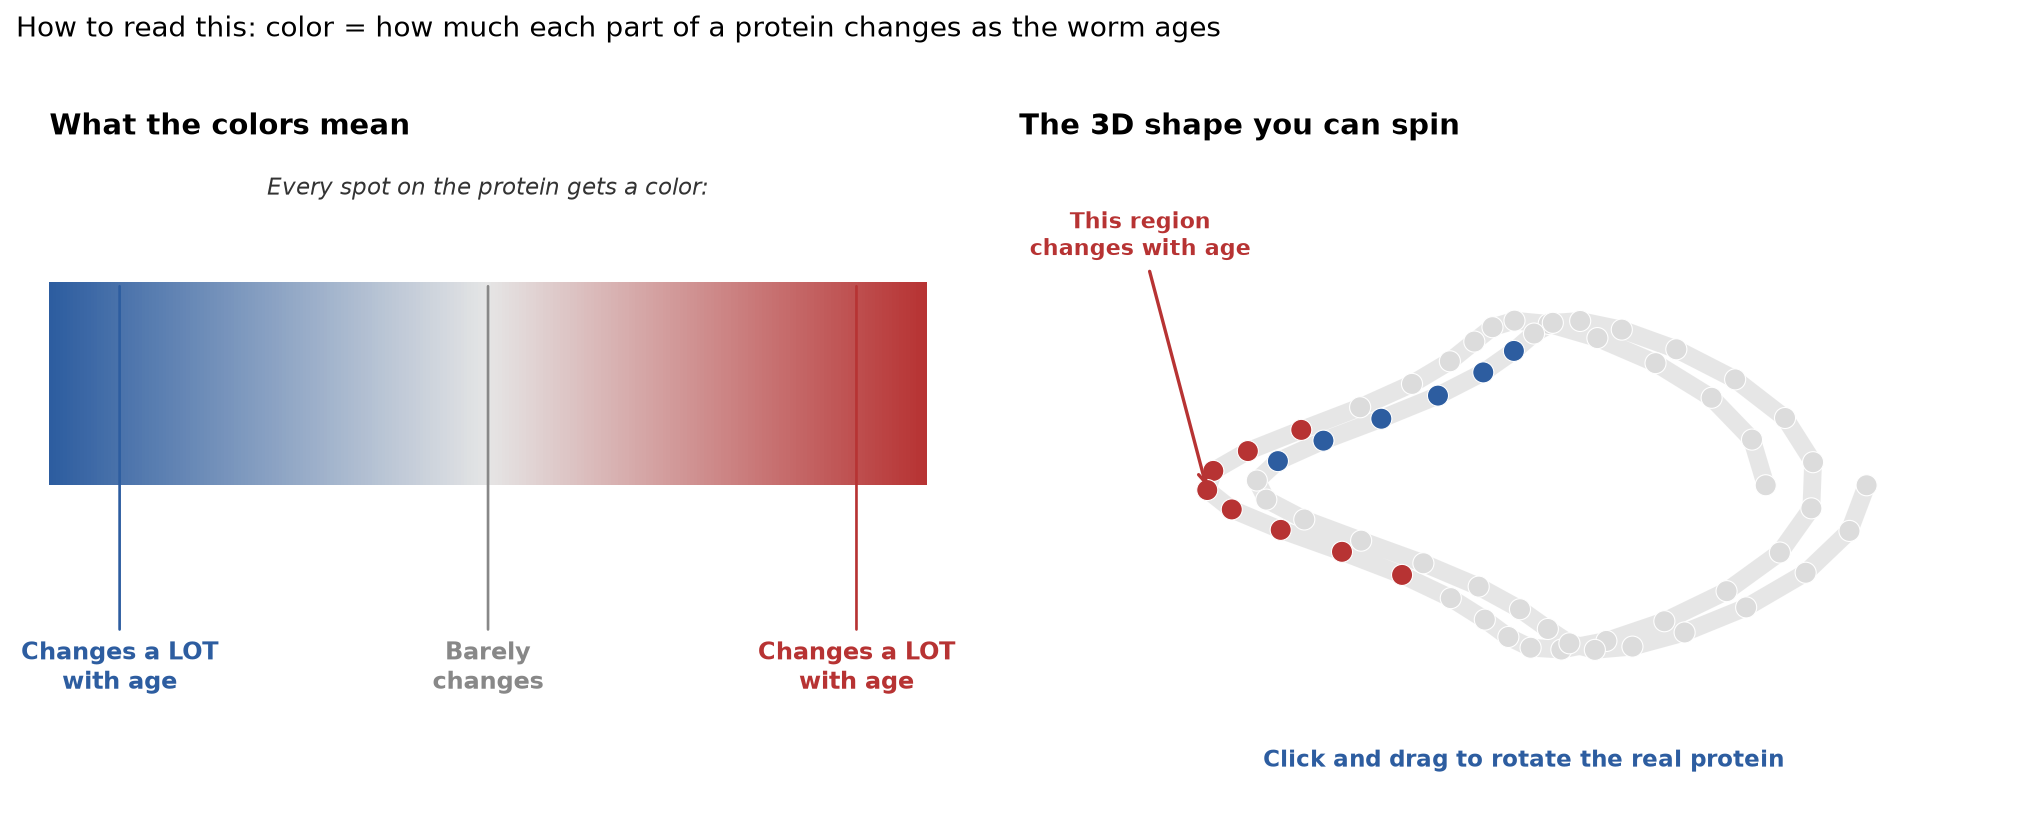
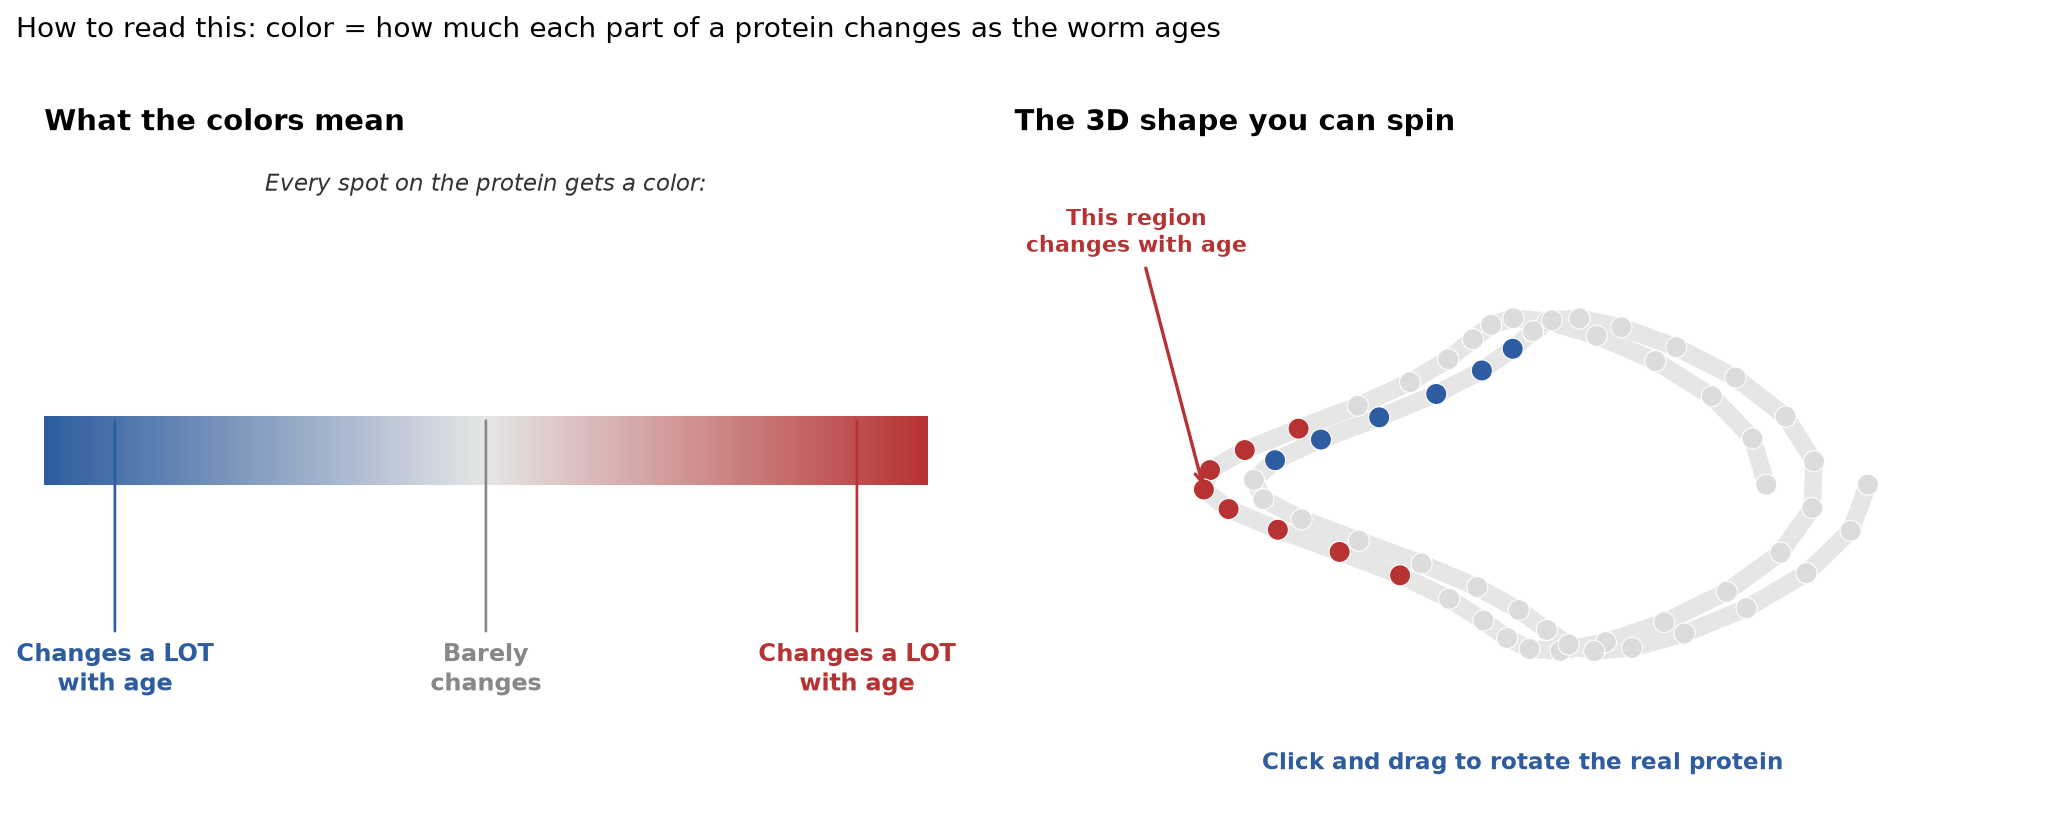
Shrink how-to color bar to 1/3 height

diff --git a/app/public_view.py b/app/public_view.py
@@ -99,10 +99,7 @@ def _render_landing(ctx: dict) -> None:
     if not diagram.exists():
         diagram = Path(__file__).parent.parent / "data" / "public_howto_diagram.png"
     if diagram.exists():
-        # Center at 1/3 width so the diagram's height is ~1/3 of full-width.
-        _dl, _dc, _dr = st.columns([1, 1, 1])
-        with _dc:
-            st.image(str(diagram), use_container_width=True)
+        st.image(str(diagram), use_container_width=True)
     st.markdown(
         "Scientists measured, for **every position** along each protein, how much its shape "
         "shifts between young and old worms. Bright colors mark the parts that change the most."